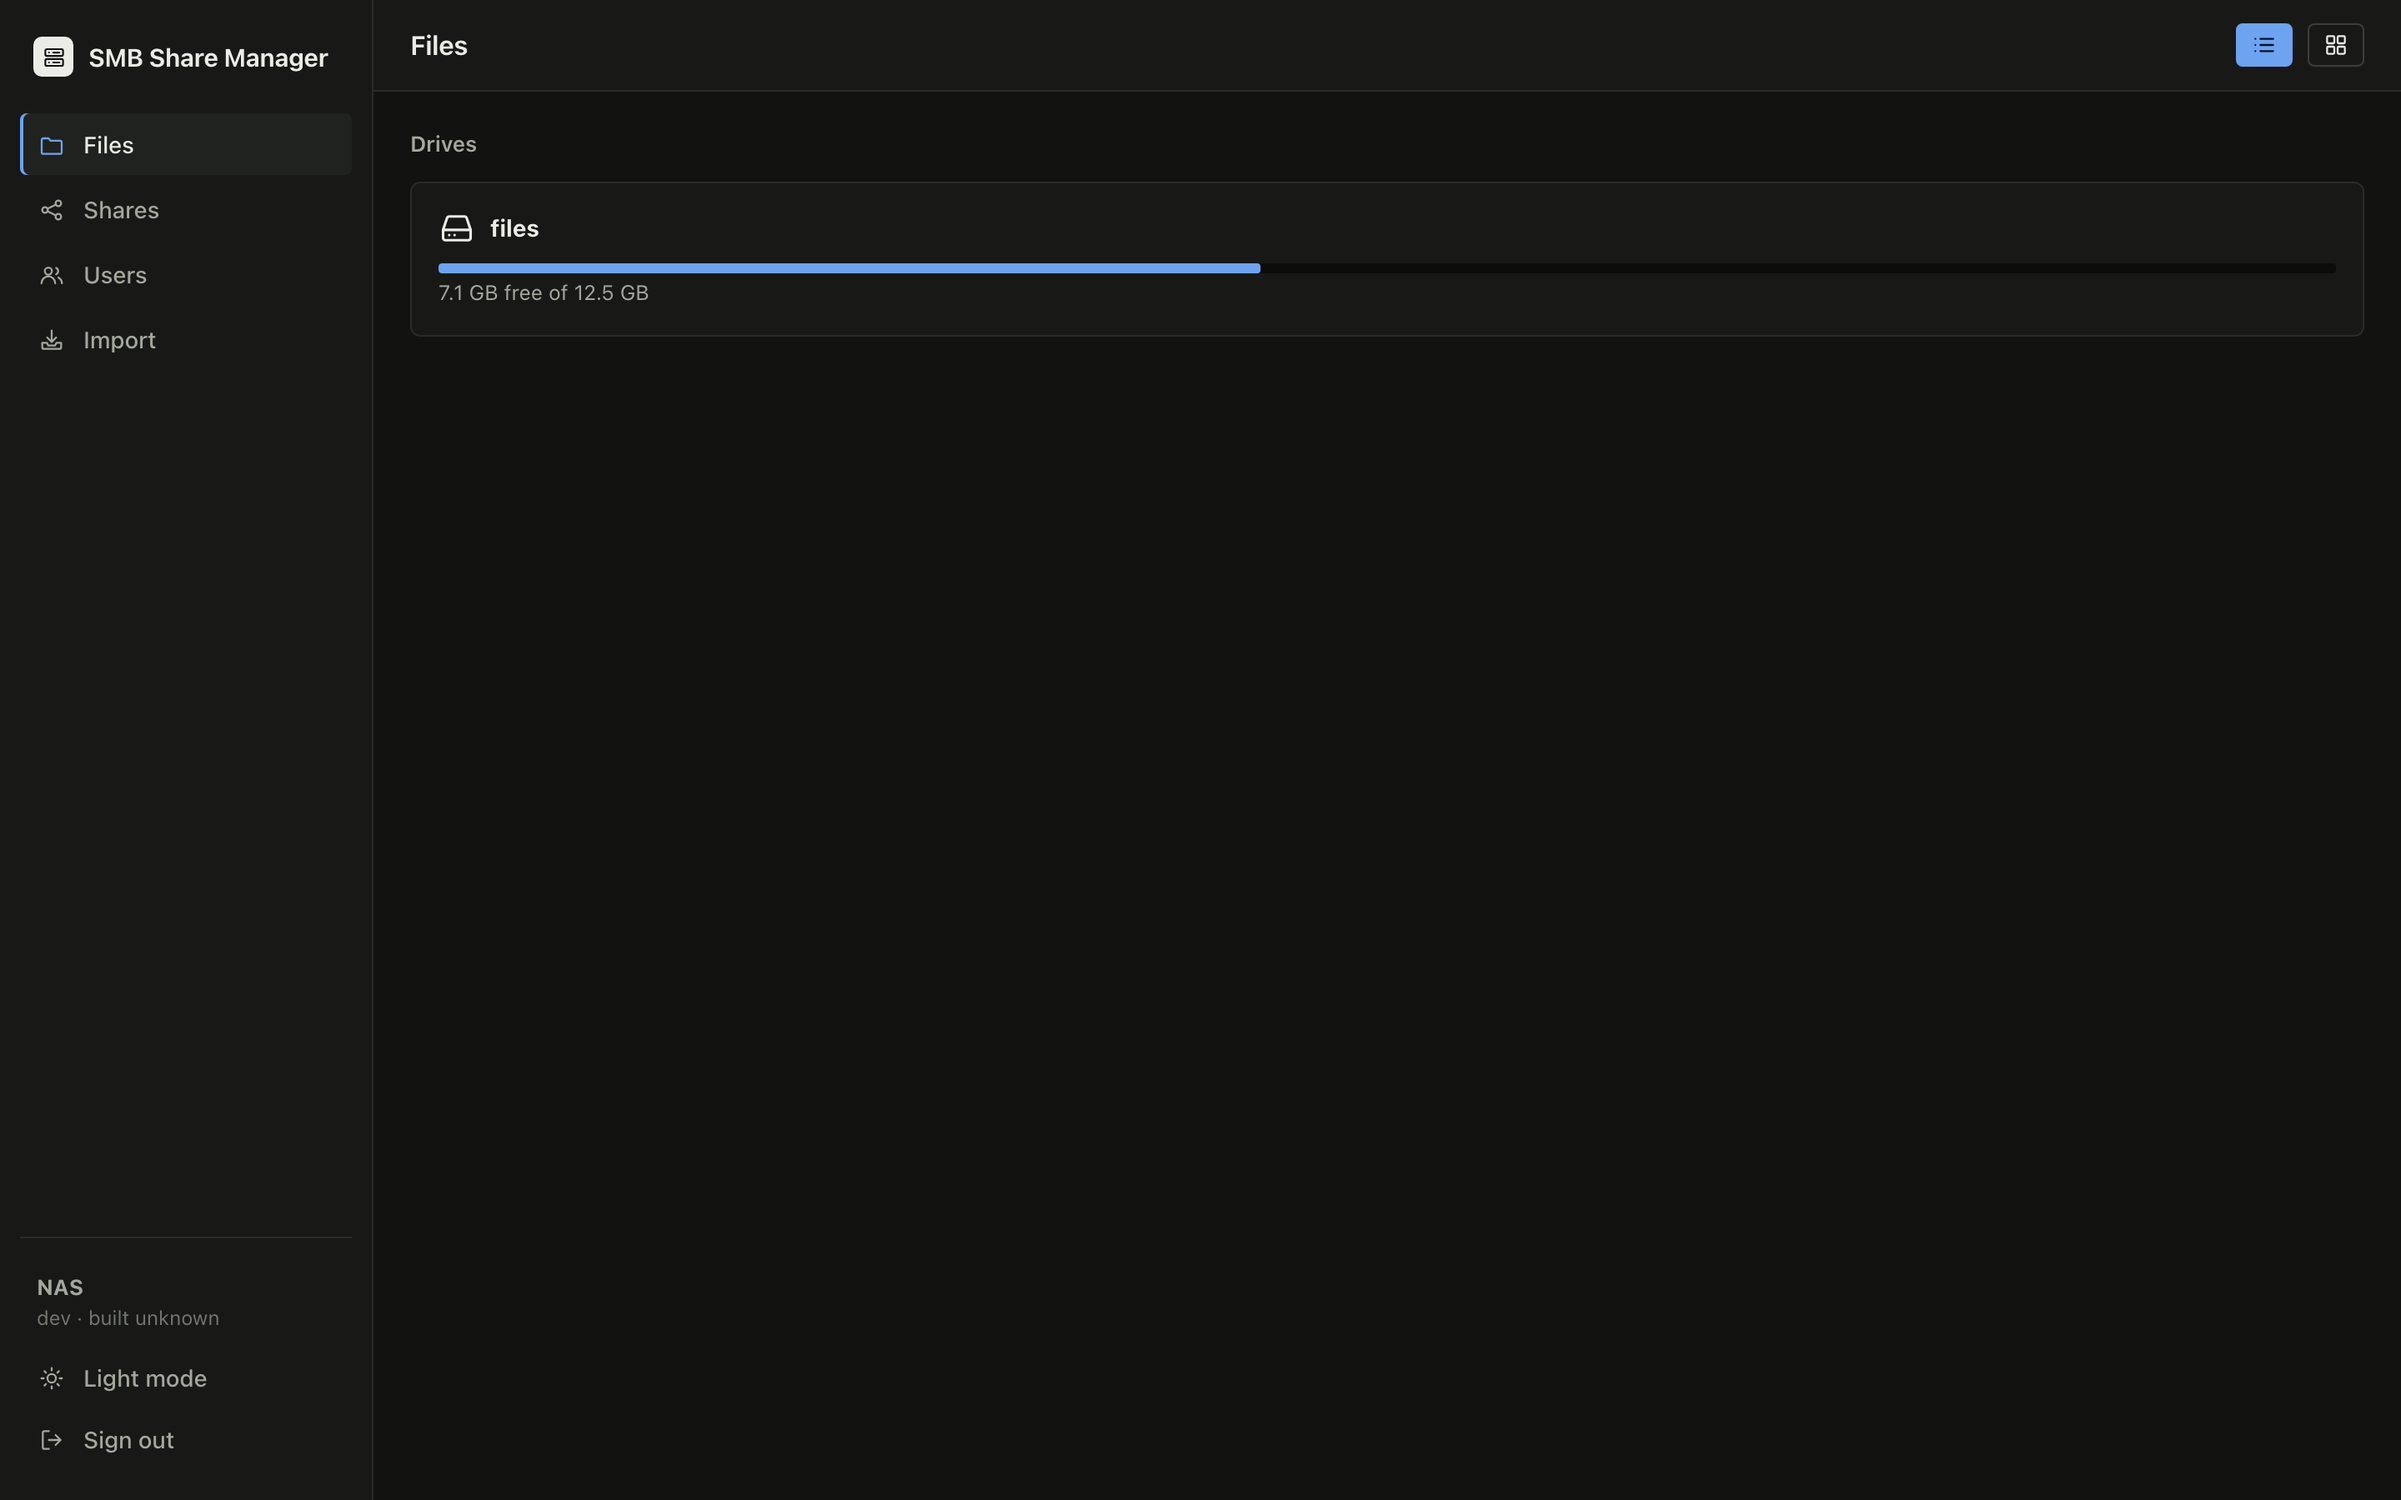
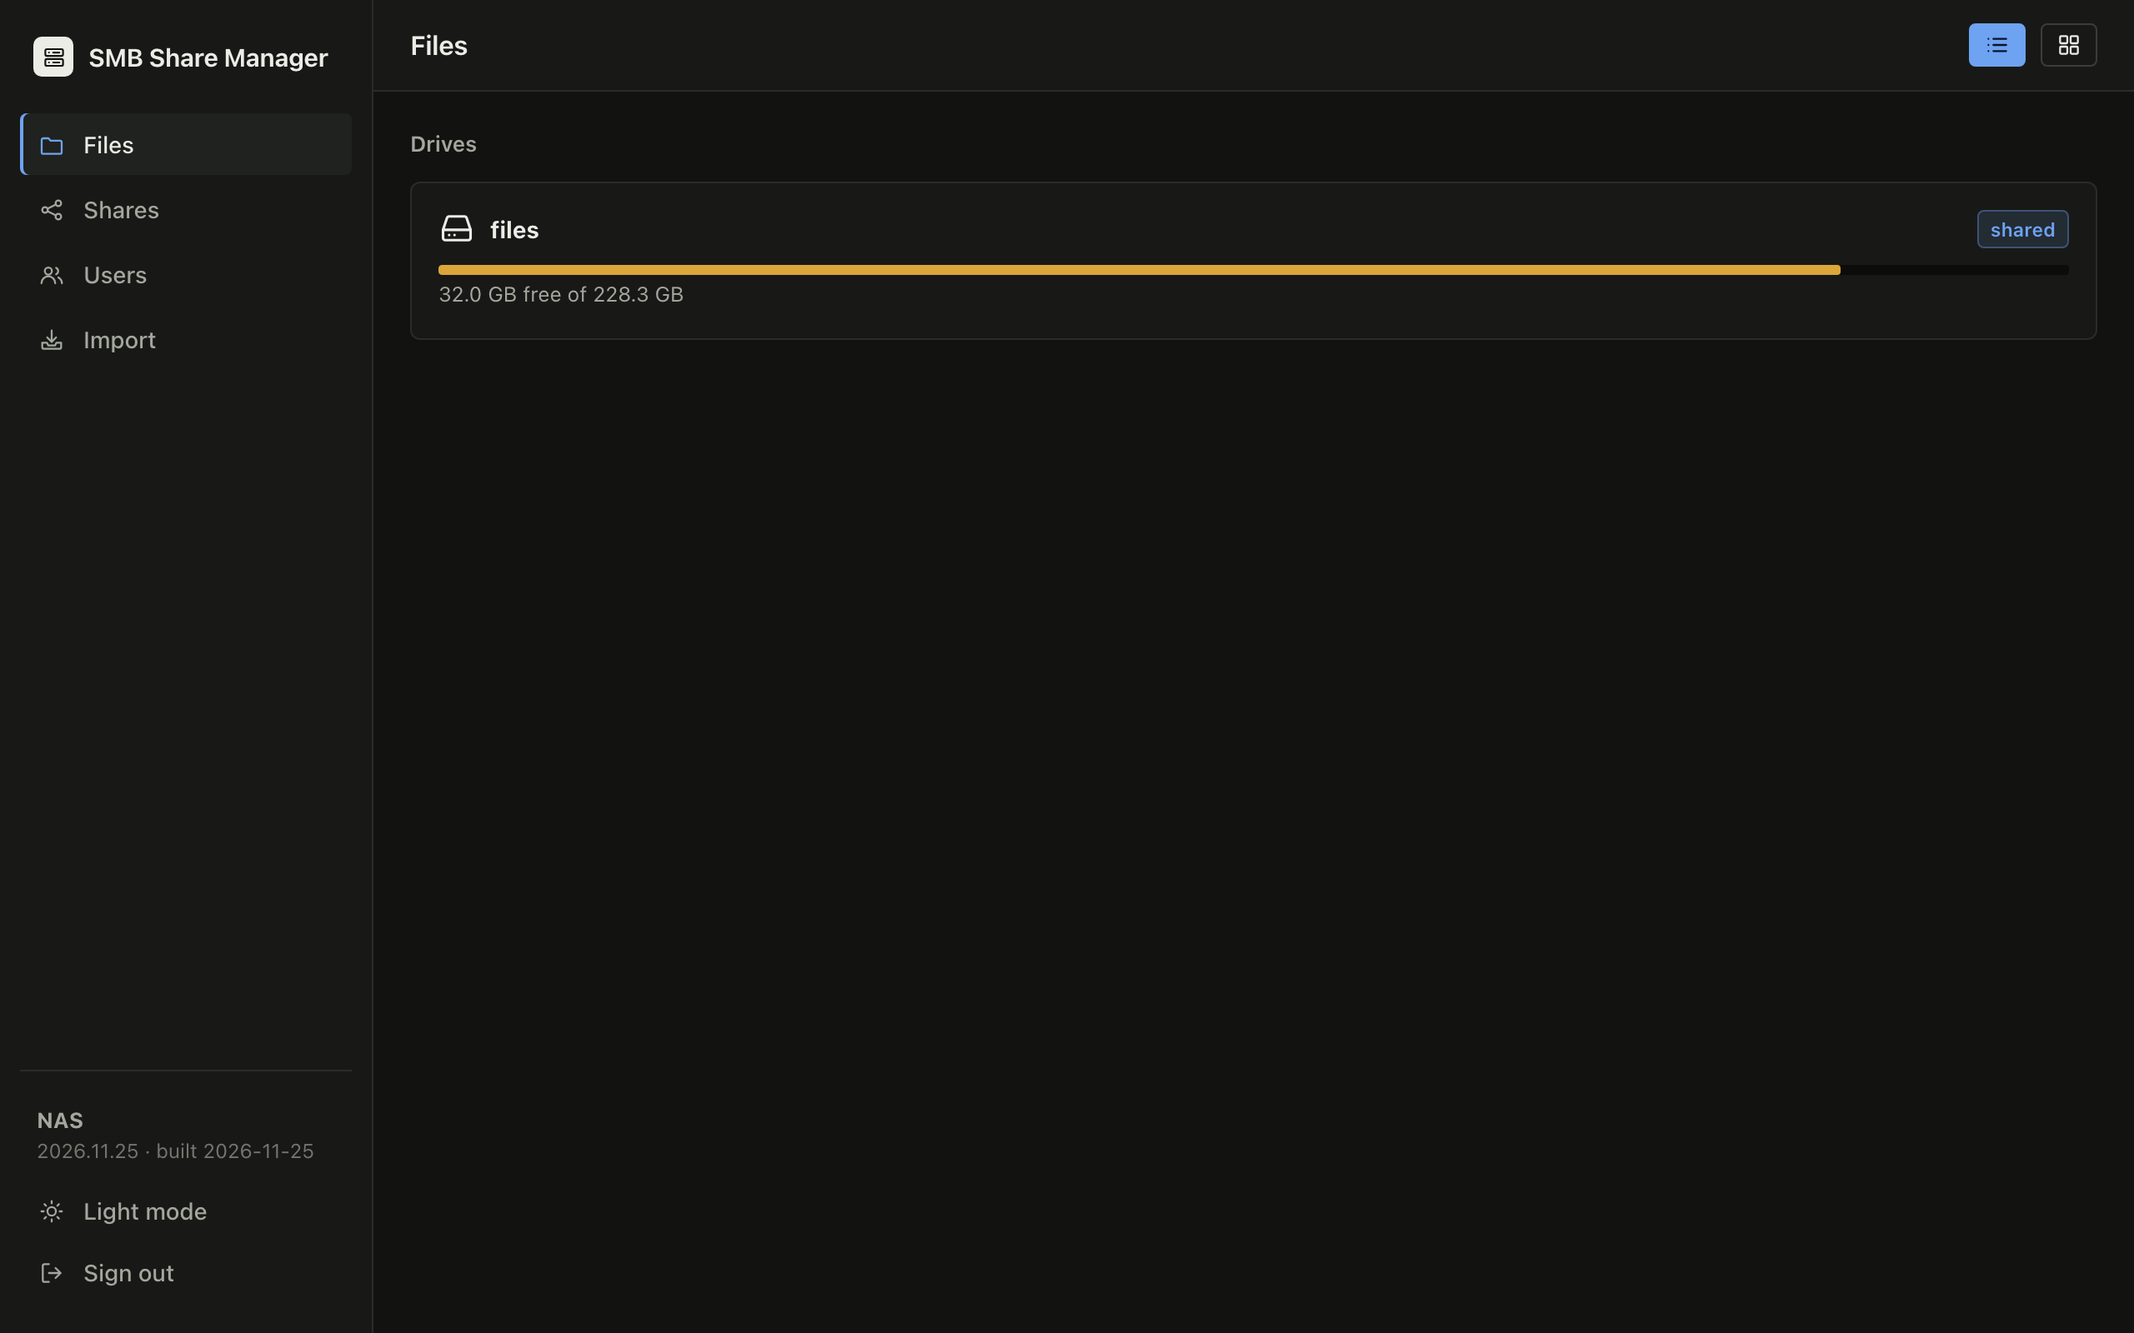
docs: refreshed screenshots (light and dark), remote-access dialog, capture script
- Every README screenshot retaken from the current UI with demo data, in light and dark;
  GitHub picks the one matching the reader's theme (<picture>).
- New: share dialog in both themes and the Users page / edit dialog with the WebDAV
  remote-access flag.
- scripts/screenshots.py regenerates them (real app, the test suite's fake helper, headless
  Chromium).

diff --git a/scripts/screenshots.py b/scripts/screenshots.py
@@ -1,0 +1,210 @@
+"""README screenshots: runs the real admin app with demo data (the test suite's fake root
+helper, so nothing touches Samba or the system) and captures every page in light and dark
+mode with headless Chromium.
+
+    cd frontend && npm run build && cd ..
+    uv run playwright install chromium-headless-shell
+    uv run python scripts/screenshots.py            # writes docs/screenshots/*.png
+"""
+
+import os
+import sys
+import tempfile
+import threading
+import time
+from pathlib import Path
+
+repo = Path(__file__).resolve().parents[1]
+out = Path(sys.argv[1]) if len(sys.argv) > 1 else repo / "docs" / "screenshots"
+sys.path.insert(0, str(repo))
+os.chdir(repo)
+
+import httpx  # noqa: E402
+import uvicorn  # noqa: E402
+from playwright.sync_api import sync_playwright  # noqa: E402
+from tests.conftest import make_settings  # noqa: E402
+from tests.fakes import FakeHelper  # noqa: E402
+
+from ssm.web.app import create_app  # noqa: E402
+
+PW = "demo-admin-password"
+tmp = Path(tempfile.mkdtemp())
+vol = tmp / "files"
+for d in [
+    "Family/Photos 2026",
+    "Family/Recipes",
+    "Family/School",
+    "Isherveer/Projects",
+    "Jagdev/Documents",
+    "Media/Movies",
+    "Media/Music",
+    "Backups",
+]:
+    (vol / d).mkdir(parents=True)
+files = {
+    "Family/Photos 2026/Beach day.jpg": 2_400_000,
+    "Family/Photos 2026/Birthday cake.jpg": 1_900_000,
+    "Family/Photos 2026/Garden.heic": 3_100_000,
+    "Family/Recipes/Butter chicken.pdf": 180_000,
+    "Family/Recipes/Dal makhani.docx": 42_000,
+    "Family/School/Term 4 report.pdf": 260_000,
+    "Family/Shopping list.txt": 600,
+    "Family/House budget 2026.xlsx": 88_000,
+    "Isherveer/Projects/rov-notes.md": 9_000,
+    "Media/Music/Playlist.m3u": 1_200,
+}
+for rel, size in files.items():
+    (vol / rel).write_bytes(b"\0" * size)
+(tmp / "data").mkdir()
+settings = make_settings(
+    tmp,
+    vol,
+    admin_password=PW,
+    allowed_hosts=["nas.home"],
+    frontend_dir=str(repo / "frontend" / "dist"),
+    max_upload_bytes=4096 * 1024 * 1024,
+    version="2026.11.25",
+    build_date="2026-11-25",
+    dav_bridge_dir=str(tmp / "bridge"),
+)
+helper = FakeHelper()
+helper.import_dir = settings.import_dir
+app = create_app(settings, helper=helper)
+server = uvicorn.Server(uvicorn.Config(app, host="127.0.0.1", port=18095, log_level="warning"))
+threading.Thread(target=server.run, daemon=True).start()
+URL = "http://127.0.0.1:18095"
+for _ in range(50):
+    try:
+        httpx.get(URL + "/healthz")
+        break
+    except httpx.HTTPError:
+        time.sleep(0.1)
+
+c = httpx.Client(base_url=URL)
+pre = c.get("/api/auth/status").json()["csrf"]
+r = c.post("/api/auth/login", json={"password": PW}, headers={"Origin": URL, "X-CSRF-Token": pre})
+H = {"Origin": URL, "X-CSRF-Token": r.json()["csrf"]}
+
+
+def ok(method: str, path: str, body: object = None) -> None:
+    r = c.request(method, path, json=body, headers=H)
+    if r.status_code >= 300:
+        raise SystemExit(f"{method} {path}: {r.status_code} {r.text}")
+
+
+for name, disp, remote in [
+    ("isherveer", "Isherveer", True),
+    ("jagdev", "Jagdev", True),
+    ("simran", "Simran", False),
+    ("livingroom-tv", "Living room TV", False),
+]:
+    ok(
+        "POST",
+        "/api/users",
+        {"username": name, "password": f"{name}-Demo-Passw0rd!", "display_name": disp},
+    )
+    if remote:
+        ok("PATCH", f"/api/users/{name}", {"remote_access": True})
+ok(
+    "POST",
+    "/api/shares",
+    {
+        "name": "Family",
+        "path": "/files/Family",
+        "comment": "Shared family folder",
+        "members": [
+            {"username": "isherveer", "access": "rw"},
+            {"username": "jagdev", "access": "rw"},
+            {"username": "simran", "access": "rw"},
+        ],
+    },
+)
+ok(
+    "POST",
+    "/api/shares",
+    {
+        "name": "Isherveer",
+        "path": "/files/Isherveer",
+        "members": [{"username": "isherveer", "access": "rw"}],
+    },
+)
+ok(
+    "POST",
+    "/api/shares",
+    {
+        "name": "Media",
+        "path": "/files/Media",
+        "comment": "Movies and music",
+        "members": [
+            {"username": "isherveer", "access": "rw"},
+            {"username": "livingroom-tv", "access": "ro"},
+        ],
+        "all_users": "ro",
+    },
+)
+
+out.mkdir(parents=True, exist_ok=True)
+REAL = os.path.realpath(vol)
+JS = """(real) => { const w = document.createTreeWalker(document.body, NodeFilter.SHOW_TEXT);
+  let n; while ((n = w.nextNode())) { if (n.nodeValue.includes(real))
+    n.nodeValue = n.nodeValue.split(real).join('/mnt/files'); }
+  document.querySelectorAll('[title]').forEach(e => { if (e.title.includes(real))
+    e.title = e.title.split(real).join('/mnt/files'); }); }"""
+
+
+def snap(pg, name):
+    pg.evaluate(JS, REAL)
+    pg.screenshot(path=str(out / name))
+
+
+with sync_playwright() as pw:
+    browser = pw.chromium.launch(args=["--host-resolver-rules=MAP nas.home 127.0.0.1"])
+    U = "http://nas.home:18095"
+    for scheme in ("dark", "light"):
+        pg = browser.new_page(viewport={"width": 1280, "height": 800}, device_scale_factor=2)
+        sfx = "" if scheme == "dark" else "-light"
+        main = scheme == "dark"
+        pg.goto(U + "/")
+        pg.wait_for_selector("#pw")
+        if main:
+            snap(pg, "login.png")
+        pg.fill("#pw", PW)
+        pg.click("button[type=submit]")
+        pg.wait_for_selector("text=Drives")
+        toggle = "text=Light mode" if scheme == "light" else "text=Dark mode"
+        if pg.locator(toggle).count():
+            pg.click(toggle)
+        pg.wait_for_timeout(400)
+        snap(pg, f"drives{sfx}.png")
+        pg.goto(U + "/files/files/Family")
+        pg.wait_for_selector(".file-row:has-text('Recipes')")
+        pg.wait_for_timeout(300)
+        snap(pg, f"files{sfx}.png")
+        pg.goto(U + "/files/files")
+        pg.wait_for_selector(".file-row:has-text('Backups')")
+        pg.locator(".file-row", has_text="Backups").first.click(button="right")
+        pg.wait_for_timeout(300)
+        snap(pg, f"context-menu{sfx}.png")
+        pg.click("text=Share via SMB…")
+        pg.wait_for_selector("#share-name")
+        pg.fill("#share-name", "Backups")
+        pg.click(".modal label.check:has-text('isherveer')")
+        pg.wait_for_timeout(300)
+        snap(pg, f"share-dialog{sfx}.png")
+        pg.keyboard.press("Escape")
+        pg.goto(U + "/shares")
+        pg.wait_for_selector("td:has-text('Family')")
+        pg.wait_for_timeout(300)
+        snap(pg, f"shares{sfx}.png")
+        pg.goto(U + "/users")
+        pg.wait_for_selector("td:has-text('jagdev')")
+        pg.wait_for_timeout(300)
+        snap(pg, f"users{sfx}.png")
+        pg.locator("tr", has_text="simran").locator("button").first.click()
+        pg.wait_for_selector(".modal")
+        pg.wait_for_timeout(300)
+        snap(pg, f"remote-access{sfx}.png")
+        pg.close()
+    browser.close()
+server.should_exit = True
+print("done", sorted(p.name for p in out.iterdir()))

diff --git a/README.md b/README.md
@@ -6,7 +6,10 @@ managing the SMB users who can reach them. It is the file browser, Shares and Us
 of nas-dashboard, without the dashboard and apps, on a hardened backend, with images
 published automatically so the server only ever pulls.
 
-![Files](docs/screenshots/files.png)
+<picture>
+  <source media="(prefers-color-scheme: light)" srcset="docs/screenshots/files-light.png">
+  <img alt="SMB Share Manager: browsing a shared family folder" src="docs/screenshots/files.png">
+</picture>
 
 What it does:
 
@@ -45,26 +48,63 @@ SECURITY.md describes the threat model and docs/UPDATING.md describes automatic 
 Screenshots
 -----------
 
-Sample data from a local demo build.
+Demo data, captured from the real app in Chromium. GitHub shows the light or dark version
+to match your theme.
+Regenerate them after a UI change with `uv run python scripts/screenshots.py` (needs
+`npm run build` and `uv run playwright install chromium-headless-shell` first).
 
-Drives, then a folder:
+**Files.** Your mounted folders appear as drives. Browse, search, upload, download, rename,
+copy and move; shared folders carry a badge.
 
-![Drives](docs/screenshots/drives.png)
+<picture>
+  <source media="(prefers-color-scheme: light)" srcset="docs/screenshots/files-light.png">
+  <img alt="Files: browsing a folder" src="docs/screenshots/files.png">
+</picture>
 
-Right-click a folder to share it:
+<picture>
+  <source media="(prefers-color-scheme: light)" srcset="docs/screenshots/drives-light.png">
+  <img alt="Drives with free space" src="docs/screenshots/drives.png">
+</picture>
 
-![Context menu](docs/screenshots/context-menu.png)
+**Share a folder in two clicks.** Right-click it, choose Share via SMB, tick who gets read
+or read & write.
 
-![Share via SMB](docs/screenshots/share-dialog.png)
+<picture>
+  <source media="(prefers-color-scheme: light)" srcset="docs/screenshots/context-menu-light.png">
+  <img alt="Right-click menu on a folder" src="docs/screenshots/context-menu.png">
+</picture>
 
-Shares and SMB users:
+<picture>
+  <source media="(prefers-color-scheme: light)" srcset="docs/screenshots/share-dialog-light.png">
+  <img alt="Share via SMB dialog" src="docs/screenshots/share-dialog.png">
+</picture>
 
-![Shares](docs/screenshots/shares.png)
+**Shares.** Every share, its folder, who can use it and the live state of Samba.
 
-![Users](docs/screenshots/users.png)
+<picture>
+  <source media="(prefers-color-scheme: light)" srcset="docs/screenshots/shares-light.png">
+  <img alt="Shares page" src="docs/screenshots/shares.png">
+</picture>
 
-Light mode and the login screen: [light mode](docs/screenshots/files-light.png),
-[login](docs/screenshots/login.png).
+**Users.** SMB accounts, their shares, and a `remote` badge for users allowed in over
+WebDAV.
+
+<picture>
+  <source media="(prefers-color-scheme: light)" srcset="docs/screenshots/users-light.png">
+  <img alt="Users page" src="docs/screenshots/users.png">
+</picture>
+
+**Remote access is per user and off by default.** It's a tick in the user's dialog, with a
+reminder to use a long password (see "WebDAV access from outside").
+
+<picture>
+  <source media="(prefers-color-scheme: light)" srcset="docs/screenshots/remote-access-light.png">
+  <img alt="Edit user with the Remote access (WebDAV) option" src="docs/screenshots/remote-access.png">
+</picture>
+
+**Sign-in.** One admin password; the UI is meant for your LAN or Tailscale only.
+
+![Login](docs/screenshots/login.png)
 
 
 Requirements
